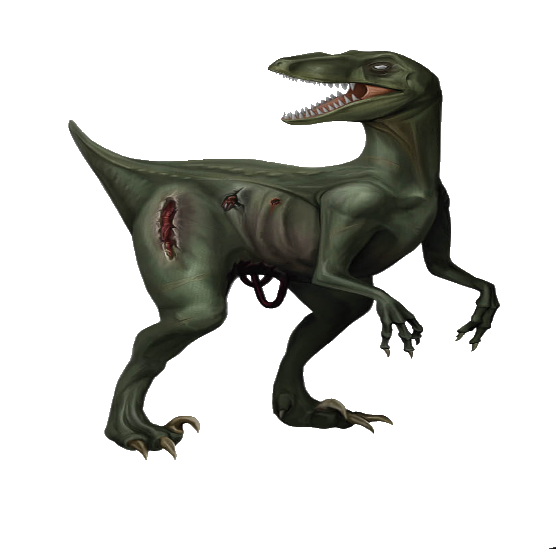
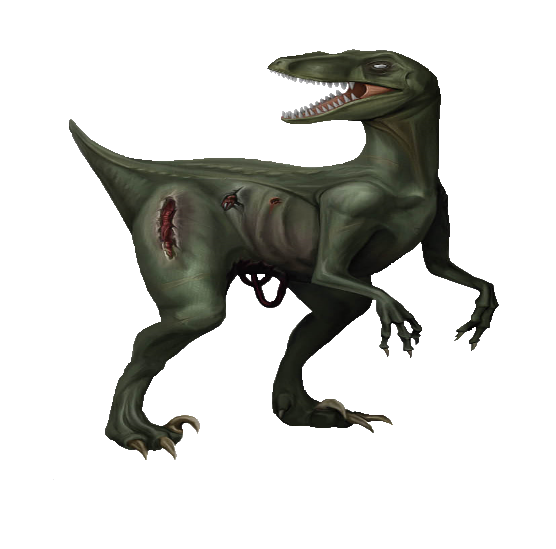
nog steeds bezig met images met 1 klaar
nog steeds bezig

diff --git a/adventure.js b/adventure.js
@@ -22,13 +22,13 @@ function enemy(firstBattle){
         "css/images/undead-warrior-size.png",
         "css/images/undead-archer-size.png",
         "css/images/blaring-hunter.png",
-        "css/images/undead-test.png",
+        "css/images/undead-raptor-size.png",
         "css/images/boss-bear.png"
     ]
     var enemy = document.createElement('img');
     enemy.className = "enemy";
     if(firstBattle) {
-        enemy.src = sight[0];
+        enemy.src = sight[1];
     } else {
         enemy.src = sight[Math.floor(Math.random() * 4)];
     }
